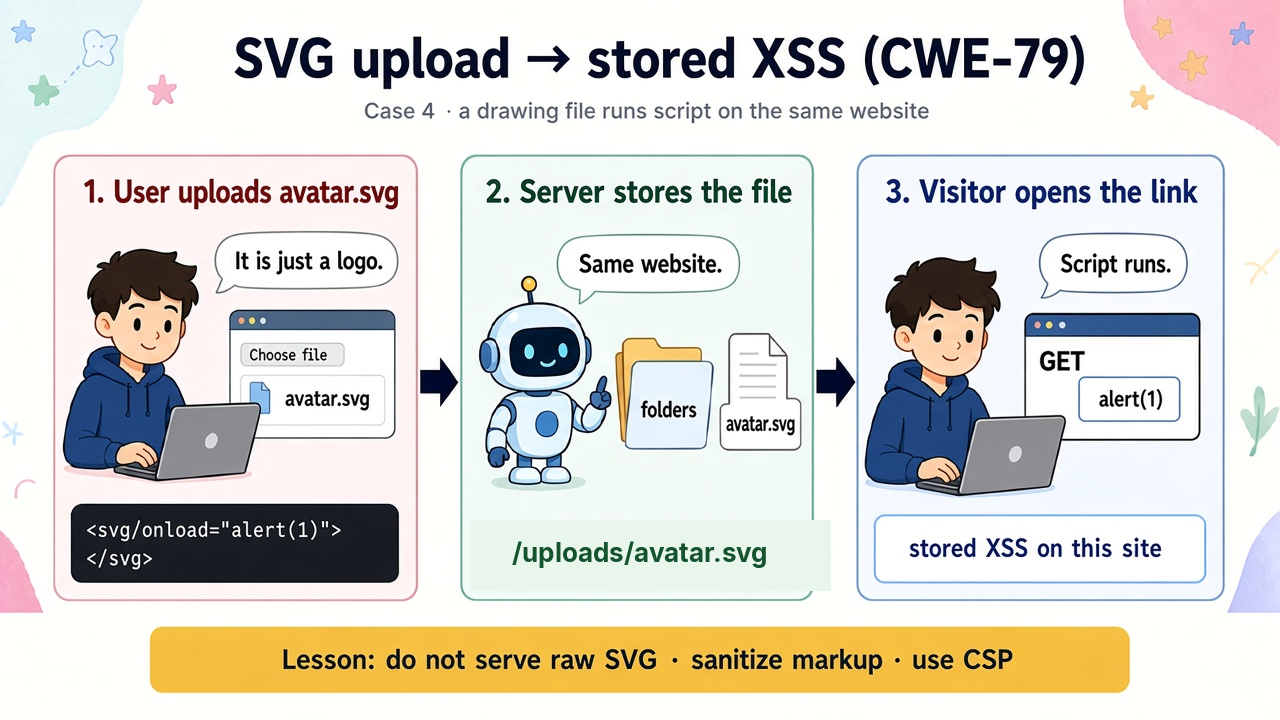
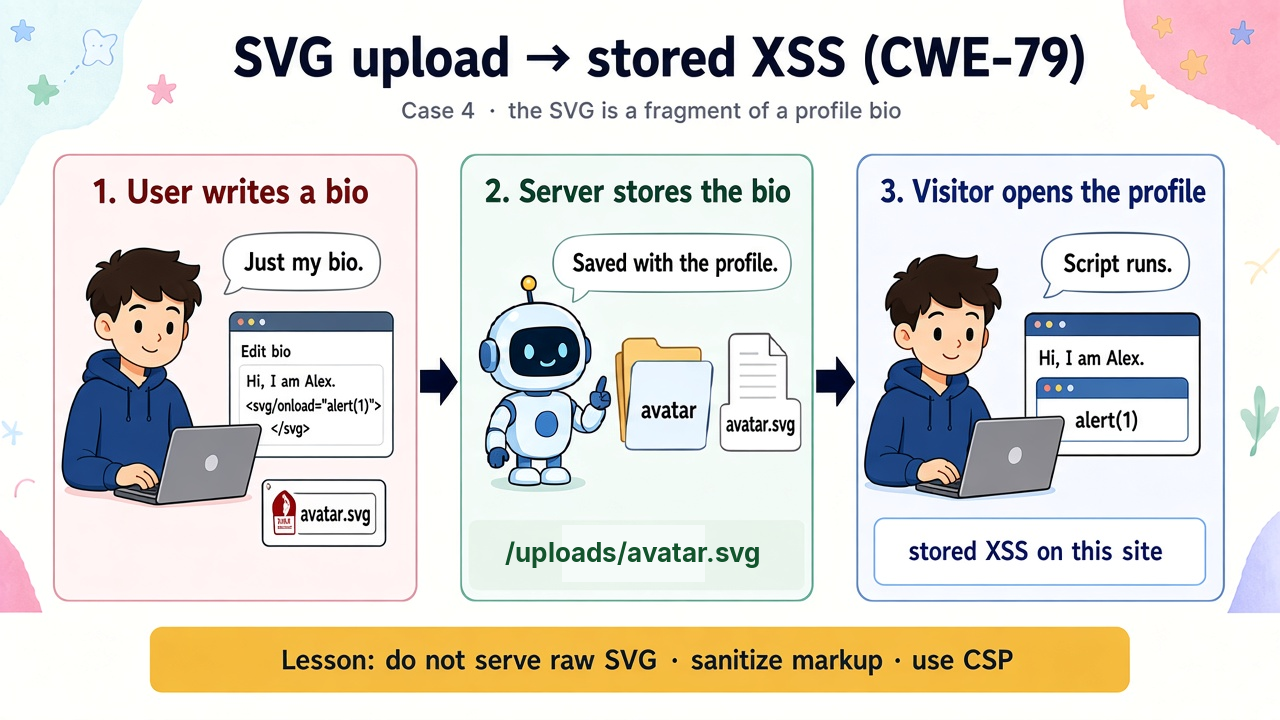
Show the SVG XSS file as a fragment of a profile bio

diff --git a/FileUpload/presentation/historical-cases/README.md b/FileUpload/presentation/historical-cases/README.md
@@ -90,14 +90,14 @@ Each case has a PNG in [`illustrations/`](illustrations/). Case **#1** uses **tw
 
 | | |
 |---|---|
-| **Illustration** | [`illustrations/hist-04-svg-xss-story-720p.png`](illustrations/hist-04-svg-xss-story-720p.png) — **SVG upload → stored XSS (CWE-79)** |
+| **Illustration** | [`illustrations/hist-04-svg-xss-story-720p.png`](illustrations/hist-04-svg-xss-story-720p.png) — **SVG upload → stored XSS (CWE-79)** · the SVG is a fragment of a profile bio |
 | **PortSwigger — client-side scripts (SVG/HTML uploads)** | https://portswigger.net/web-security/file-upload |
 | **PacketWanderer — Stored XSS via SVG** | https://packetwanderer.com/posts/svg-xss/ |
 | **TypiCMS advisory** | https://github.com/TypiCMS/Core/security/advisories/GHSA-xfvg-8v67-j7wp |
 | **ComfyUI advisory (`/view` + inline SVG)** | https://github.com/Comfy-Org/ComfyUI/security/advisories/GHSA-rj8c-c4p8-3c5h |
 | **OopsSec — MIME vs bytes + CSP** | https://koadt.github.io/oss-oopssec-store/posts/malicious-file-upload-stored-xss/ |
 
-**Plain language:** A file looks like a diagram; opening the link runs a hidden script and can steal login sessions.
+**Plain language:** Someone writes a profile bio and puts an SVG in that bio. Opening the profile runs a hidden script and can steal the login session.
 
 **Technical:** Upload `image/svg+xml` with `onload` / `<script>` → served inline or at a direct URL on the same origin → stored XSS (`<img>` often does **not** run the script).
 
